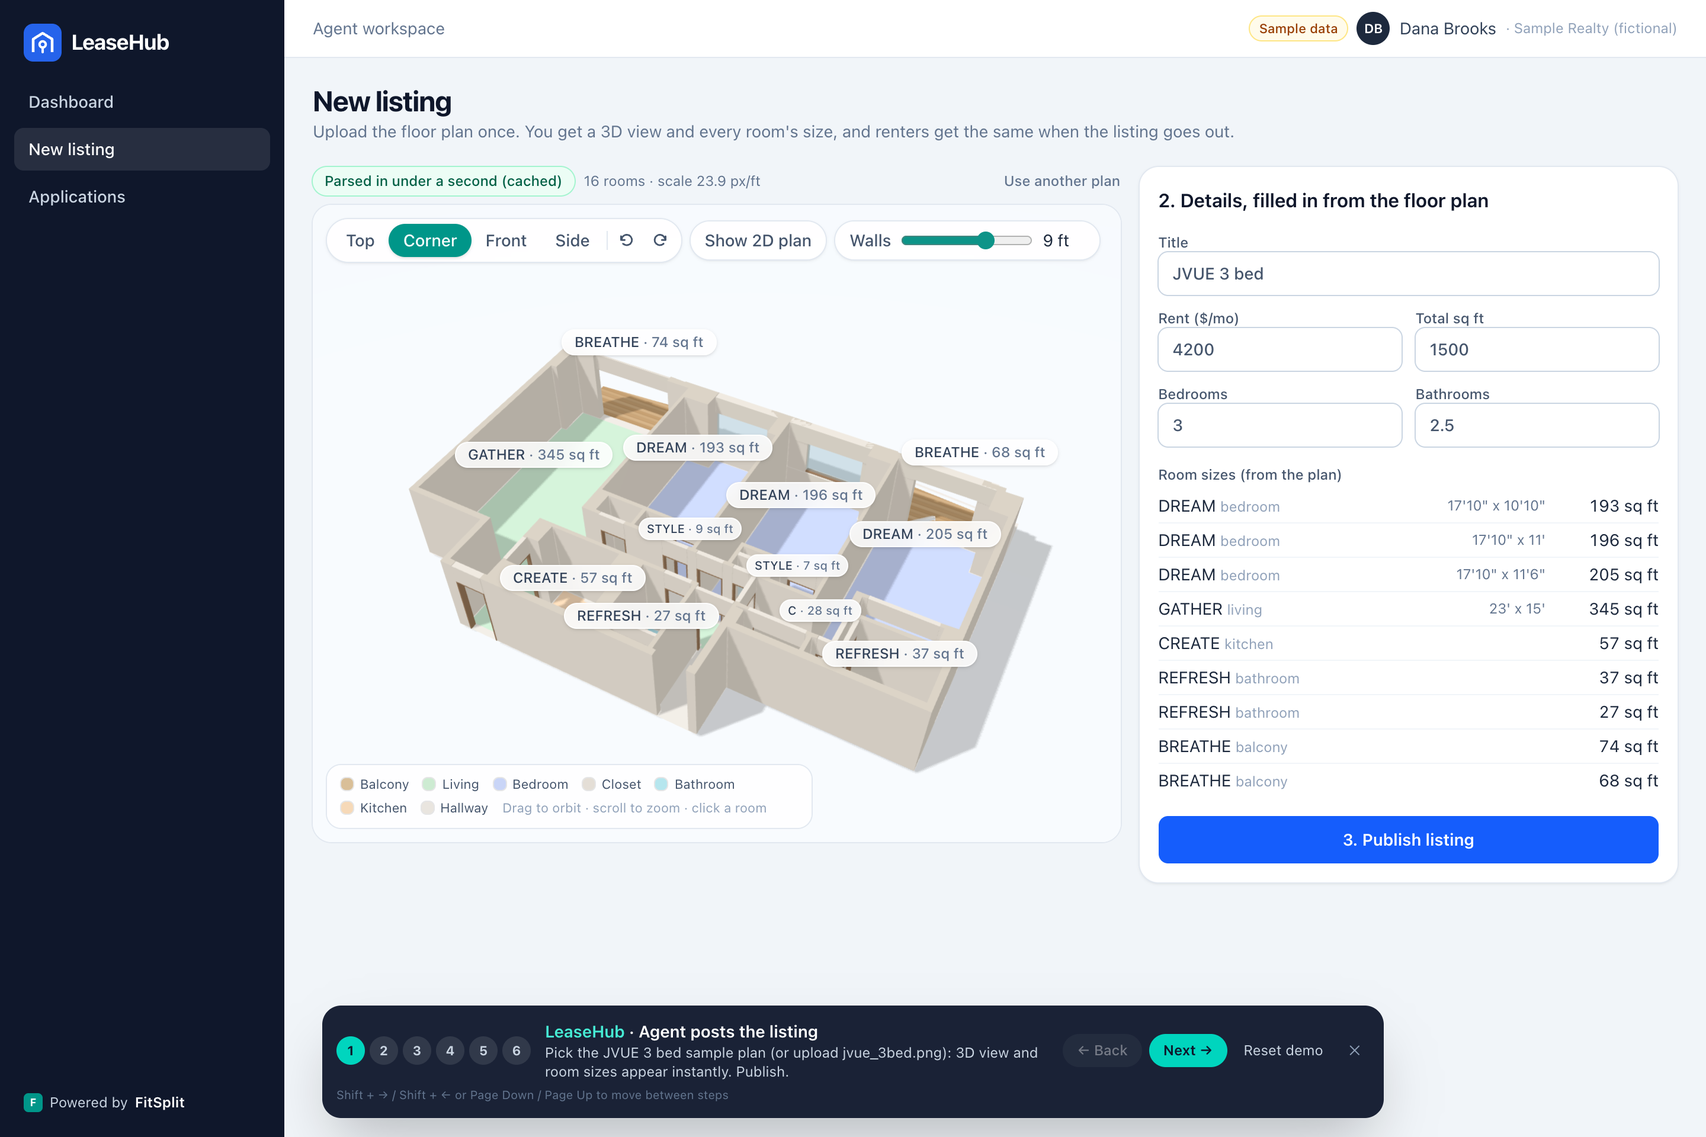
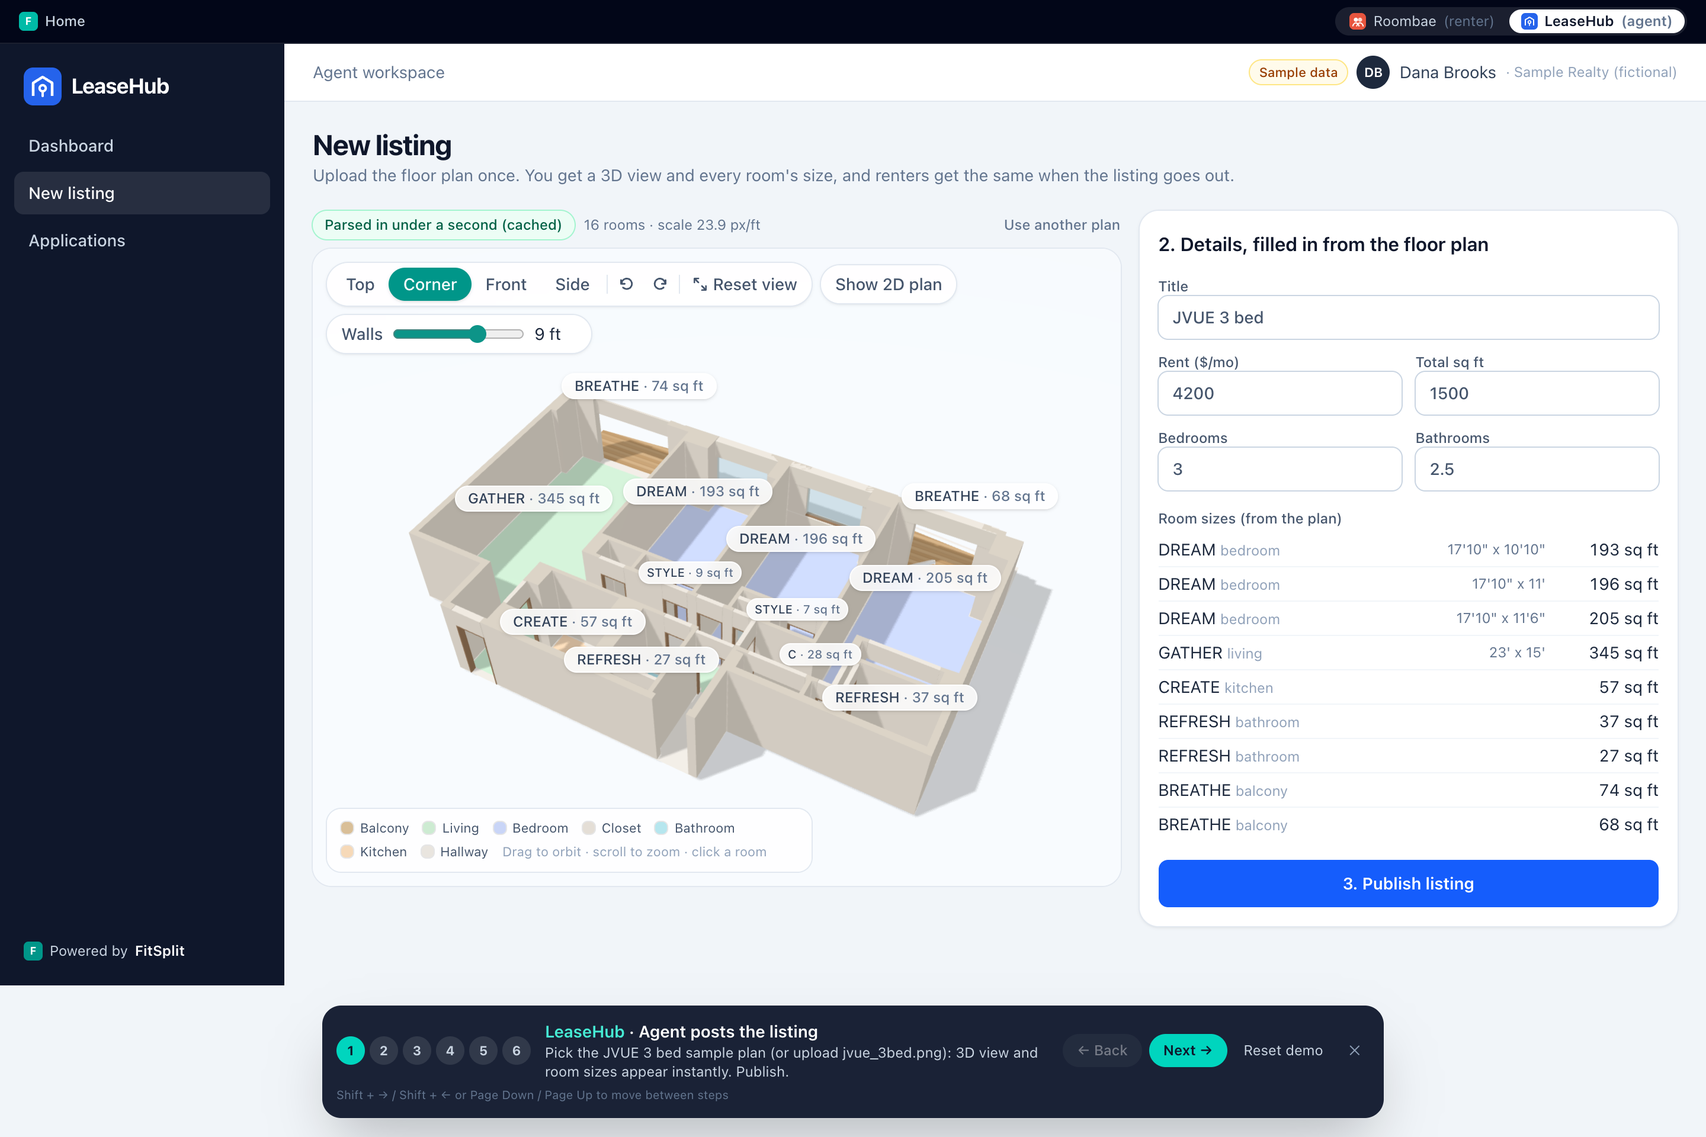
Report for the 2026-10-15 fixes: docs/FIXES_2026-10-15.md, refreshed screenshots (swipe deck, match, didn't click, My matches, replay), decisions and progress

diff --git a/docs/FIXES_2026-10-15.md b/docs/FIXES_2026-10-15.md
@@ -1,0 +1,244 @@
+# Fixes after the tour: 2026-10-15
+
+The six fixes from the tour, in the order asked, on branch `overnight`: one commit per fix, plus two
+small follow-ups to fix 3. Everything that worked before still works, and the guided demo still runs
+end to end with the backend stopped.
+
+## Status
+
+- All six fixes are done and committed, plus two small follow-ups to fix 3:
+  `f605f7e` (1), `d4b7cdd` (2), `d7e97df` (3), `2e1a044` + `5313e21` (3 follow-ups), `8a6b4c2` (4), `a65e246` (5), `78f3a4d` (6).
+- All 12 bundled conversations come from the new engine (rm2), and every message has a plain-English line.
+- **Tests: all green**, run against a cold-start `npm run dev:all`.
+
+  | Suite | Result |
+  |---|---|
+  | backend pytest | 53 passed |
+  | `npm run check` (offline logic, now with the deck filters) | 58 passed |
+  | `npm run build` | ok |
+  | `e2e-demo` (the 6-step demo, online + backend blocked) | 48/48 |
+  | `e2e-swipe` (online, offline, phone) | 69/69 |
+  | `e2e-chat` (online, offline) | 30/30 |
+  | `e2e-stepbar` | 15/15 |
+  | `e2e-nav` | 12/12 |
+  | `e2e-reset` | 8/8 |
+  | `e2e-viewer` | 10/10 |
+  | `e2e-rentcheck` | 17/17 |
+
+## What changed
+
+### 1. Chat auto scroll (bug)
+- The conversation scrolls inside its own box (up to 62% of the screen), so the page never moves by
+  itself.
+- The box follows new messages only while you're near its bottom (within about 56 px). Scroll up
+  and it stays where you left it.
+- When new messages arrive while you're scrolled up, a **Jump to latest ↓** button appears. It
+  sticks above the demo bar, even when the box's bottom is below the fold.
+- Replay controls:
+  - **Pause / Play**;
+  - speed **1× / 2× / 4×** (the choice carries over to the next conversation);
+  - **Skip to verdict** (lands on the top of the verdict card);
+  - **↺ Replay** once it's done.
+- The lease and move-in checks above the chat now have labels (they were blank).
+- Test: `frontend/scripts/e2e-chat.mjs`, online and with the backend blocked. It covers following,
+  staying put after a real wheel scroll-up, jump, pause / play, speed and skip.
+
+### 2. Navigation
+- `/` now has three big entries: **Roombae (renter)**, **LeaseHub (agent)** and **Guided demo**. The
+  parser lab is a small link below them.
+- Both portals have a slim bar on top:
+  - **Home** goes back to `/`;
+  - a **Roombae / LeaseHub** switcher marks the current portal.
+- Each portal's logo goes to that portal's home.
+- Test: `frontend/scripts/e2e-nav.mjs`.
+
+### 3. Swipe to match
+Ported from Tanvi's **Setup Match** (`SetupMatch.tsx`, plus her `GET /users/candidates` filter) and
+**My Matches** (`MyMatches.tsx`). She is credited in the README and on the page.
+- **Find roommates** is now three steps: **1 Discover → 2 My matches → 3 Find a place together**.
+- **Discover** is a Tinder-style stacked deck:
+  - each card shows an illustrated avatar, name, program and school, hometown, budget, move-in,
+    sleep, tidiness, guests, fun tags (hobbies), a short bio and what they care about;
+  - drag with rotation and a spring back (Framer Motion 13.4.6), ✕ / ♥ buttons, ← / → keys, and
+    Undo for the last swipe.
+- **Filters (Tanvi's):** same city first, then the same metro area, and anyone else is hidden.
+  "Same gender only" is checked both ways, and swiped profiles are hidden. One addition: students who
+  already host a room (Arjun, Sofia: Fill a room) aren't in the deck. The page lists who is hidden
+  and why. Two new fictional students exist only to show the filters: Daniel (Manhattan) and Marcus
+  (same gender only).
+- **After a swipe right:**
+  - "Your clones are talking…": the real conversation plays fast, one line per message, with a
+    progress bar. You can skip, or keep swiping while a live one runs;
+  - then **"It's a match!"**: both avatars, the verdict, the score, the top three sub-scores, what's
+    still open, then **Watch the conversation** / **Find a place together** / Keep swiping;
+  - or **"Your clones didn't click"**, with one line from the profiles (e.g. "Jake smokes, and you
+    need a non-smoking home.") and **See why**.
+- **My matches:** verdict counts, a "Show incompatible" toggle (hidden by default, as in Tanvi's),
+  scores, the open topics, **Watch the conversation**, and "In my group" checkboxes. **Find a place
+  together →** leads on.
+- **Find a place together** (the old roommate page):
+  - pick roommates from your matches;
+  - every pair in the group must match (Ananya + Meera's clones talked too);
+  - you only see listings where every fair-split share fits each budget;
+  - **Save group & see it in 3D**, then the rent split, then group apply, as before.
+- **Seeded deck for Priya:** Ananya (match), Jake (didn't click: smoking), Kavya, Meera (match) and
+  Rohan, in Tanvi's order (location, then name). Every card has a bundled conversation, so swiping
+  works offline.
+- **Swipes** live in the shared localStorage store, survive a reload, and are cleared by **Reset
+  demo**.
+- **Avatars** are illustrations in DiceBear's "Notionists" style (artwork CC0, code MIT), with the
+  look picked per student. They are pre-generated SVGs in `public/demo/avatars/`, with no runtime
+  library or network call; without one, initials show.
+- `/demo` step 2 and `docs/DEMO_SCRIPT.md` now use the swipe flow. The step 2 hint walks through it.
+- Phone: the card and the ✕ / ♥ buttons fit on one screen.
+- Tests:
+  - `frontend/scripts/e2e-swipe.mjs`: deck order, filters, short drag springs back, drag / key /
+    button swipes, match, didn't click, replay, reload, My matches counts and toggle, group,
+    listings, save, Reset demo. Run online, with the backend blocked, and on a phone viewport;
+  - deck filter unit checks in `npm run check`;
+  - step 2 of `e2e-demo.mjs`.
+
+### 4. Clone conversation quality
+**Why the clones asked for things already said.** All three suspects contributed (details in
+`docs/notes/roommate_engine_analysis.md`):
+- **How the other clone's message was passed (main cause).**
+  - It arrived as an unlabelled "user" message behind the phase hint. Models echoed it (Priya's clone
+    repeated Kavya's message word for word for ten turns), answered as the other person, or called
+    them "User".
+  - Each clone saw only its last 6 history entries. By turn 8 the other's intro (budget, move-in)
+    was out of view.
+- **Lazy modules.** A clone's own sleep, guests and cleanliness answers arrived only after it asked
+  for that module, and only on its next turn. Until then it guessed, often by mirroring the other
+  (Meera's clone reported Priya's sleep times as her own).
+- **Phase prompts.** "Ask theirs" repeated every turn. "VRD in your final message" put a verdict in
+  every message, and a turn-1 "STRONG" once decided a match.
+- **Found while regenerating:**
+  - the clones and the analysis read "mv=1–3 months" (move in within 1 to 3 months) as a 1–3 month
+    stay, and argued about lease length;
+  - the analysis invented "hard non-negotiables" and overrode the clones' verdict.
+
+**The fix: engine rm2** (`backend/app/roommates/memory.py`, `engine.py`).
+- **Memory.** Every turn's prompt names both clones and labels the other's message ("Meera's clone
+  just said: …"). It carries a memory parsed from the ACP fields:
+  - what the other already told you (never ask again);
+  - what you already shared (don't repeat);
+  - what's still open this phase;
+  - any fact check from code.
+- **Modules by phase.** Exploration loads routines, social and lifestyle; negotiation loads financial
+  and dealbreakers. A topic the other raises loads its module before you reply.
+- **Intro.** It must state smoking, pets and non-negotiables, so Jake's smoking ends the chat in
+  turn 2.
+- **Non-negotiables.** Each clone sees its exact non-negotiables and flexible items. Before the
+  conclusion, only a conflict with a real non-negotiable ends the chat; anything else gets "negotiate
+  it". The same rule applies to an analysis override.
+- **Verdicts.** Only conclusion-phase verdicts decide strong / conditional. Code-verified open points
+  (e.g. lease length) are listed first.
+- **Field notes** for every clone: "mv = when you move in, not how long you stay; your lease: …".
+- **Plain-English lines.** Each reply starts with a `SAY:` line, the chat's main text, with the
+  protocol under a small per-message **details** toggle. It comes with the turn and is cached with
+  it. One cached narration call fills any gaps (none were needed), and narration that quotes a
+  number its message doesn't contain is dropped.
+- **Tests.** 11 new backend tests. The test fixture now also blocks the text providers and isolates
+  the usage ledger and cache (the new narration step would otherwise have let a test reach a real
+  API).
+
+**Regenerated (all 12 bundled conversations):**
+
+| Pair | Result | Model |
+|---|---|---|
+| Priya + Ananya | strong, 95 | Groq |
+| Priya + Jake | incompatible in 2 turns (smoking) | Groq |
+| Priya + Meera | conditional, 74: lease length, weekend hangouts, late noise | Claude |
+| Ananya + Meera | conditional, 72: move-in date | Groq |
+| Priya + Kavya | conditional, 84 (the old one looped on an invented pet conflict) | Claude |
+| Priya + Rohan | strong, 90 | Claude |
+| Fill a room: Rohan + Arjun, Rohan + Sofia | strong, 84 and 85 (Rohan matches) | Claude |
+| Fill a room: Jake + Arjun, Jake + Sofia | out in 2 turns (smoking) | Claude |
+| Fill a room: Kavya + Arjun, Kavya + Sofia | exact budget check, no model calls | none |
+
+The group (Priya, Ananya, Meera) and every demo step are unchanged.
+
+### 5. Reset view button
+- Every embedded 3D viewer has a small **Reset view** button. On phones it reads "Reset".
+  - With the toolbar, it sits next to the rotate buttons.
+  - On embeds without one (Fill a room), it's a small pill top left.
+- It returns to the viewer's starting view (3D corner, no 45° offset) and re-fits the camera after
+  any orbit, zoom or pan, and also from Top / Front / Side.
+- Test: `frontend/scripts/e2e-reset.mjs` covers a listing page and Fill a room. After orbit + zoom,
+  the camera comes back within about 1 px of the default fit.
+
+### 6. Demo step bar sync
+- The bar follows the current page:
+  - step 2 covers Discover, My matches and Find a place together;
+  - step 3 is the listing page, step 4 the listing page with `#rent`, step 5 apply, step 6 the
+    application view.
+- On a page that isn't a step's, the bar keeps the last step and offers "back to step N".
+- **Next / Back / Shift + arrows / Page Up / Page Down** step from the shown step, on any page. The
+  step survives switching portals.
+- The LeaseHub dashboard no longer counts as step 6 (it showed "6" while posting the listing), but
+  "Next" onto step 6 still works there.
+- While a furniture piece is selected in edit mode, Shift + arrows nudge the piece (1 ft) and no
+  longer change the step. Page Up / Down still do. This was a known issue from last night.
+- Test: `frontend/scripts/e2e-stepbar.mjs`.
+
+## Screenshots (docs/screenshots/)
+
+New or updated by `e2e-demo.mjs`:
+- `roombae_discover_deck.png`: the swipe deck, with the filters panel.
+- `roombae_discover_match_strong.png`, `roombae_discover_match_conditional.png`: "It's a match!"
+  (Ananya 95, Meera 74, with what's still open).
+- `roombae_discover_didnt_click.png`: "Your clones didn't click: Jake smokes, and you need a
+  non-smoking home."
+- `roombae_my_matches.png`: My matches (counts, Show incompatible, In my group).
+- `roombae_replay.png`: the replay with plain-English lines, details folded, and replay controls.
+- `demo_step2_deck.png`, `demo_step2_talking.png`, `demo_step2_match.png`,
+  `demo_step2_noclick.png`, `demo_step2_group.png`: demo step 2.
+- `landing.png`: the new landing page.
+- The other portal and demo screenshots were refreshed.
+- `demo_step2_negotiation.png` (the old auto-play chat) was removed.
+
+## API calls for these fixes
+
+All calls are in `data/llm/calls.jsonl`, without prompts, answers or keys.
+
+**Claude (`claude-sonnet-5-5`): 77 calls today.**
+- 73 succeeded. 4 failed: 2 cut off at the old token limits (fixed), 1 timeout, 1 dropped
+  connection (now retried on the same provider).
+- All of them were for the roommate conversations: Priya with Meera, Kavya and Rohan, and the Fill
+  a room pairs.
+- 256k tokens in, 62k out.
+- Total since last night: **94 of the 150 cap**, so **56 left**.
+
+**Groq:** 165 successful calls (qwen3.8-27b 104, gpt-oss-120b 42, gpt-oss-20b 19), plus 154
+rate-limit retries. They generated Priya + Ananya, Priya + Jake and Ananya + Meera, plus the first
+Kavya and Rohan versions in fix 3. All three models then hit their daily token quota.
+
+**Gemini:** 6 attempts, 0 successes (quota exhausted and high demand).
+
+**Budget change (yours, mid-way):**
+- Claude cap raised to 150 in total, and Claude first in the text chain.
+- `TEXT_CHAIN_ORDER=groq,gemini,claude` restores the overnight order once Groq's quota is back.
+
+## Still off
+
+- **Live negotiations now cost Claude calls.** With Claude first, a swipe on a pair that isn't
+  bundled (e.g. after a profile edit through the API) costs about 14 Claude calls (56 left). Set
+  `TEXT_CHAIN_ORDER=groq,gemini,claude` once Groq's daily quota resets. Everything in the demo is
+  bundled.
+- **Two writing styles.** Three conversations came from Groq (qwen / gpt-oss) and the rest from
+  Claude Sonnet. Claude's lines are longer and more concrete, and its open topics can be long
+  ("small friend hangouts in my room on non-gathering weekends"), so chips wrap on the match screen.
+- **The clones are still a bit agreeable.**
+  - In Ananya + Meera, Meera "accepts" a 1-year lease although she listed no lease flexibility.
+    Code still marks the move-in date as open.
+  - Analyses occasionally restate a gap that code says is fine (Priya + Meera mentions move-in
+    timing, though Priya is flexible on it).
+- **The questionnaire is read-only.** Discover shows Priya's 7 sections, but editing answers (and a
+  live re-negotiation from them) isn't wired in the UI; the old page's edits never reached the
+  backend either.
+- **The deck filter runs only in the browser** (`roommates/deck.ts`), so it also works offline.
+  There is no backend candidates endpoint.
+- **Avatars** exist only for the 10 sample students; anyone else gets initials.
+- **Priya + Meera's record says `providers: cache 14`.** It was replayed from cache to apply the
+  open-points fix (0 calls); the call log has the real calls.
+- **The phone layout** was tested in Chrome emulation only.

diff --git a/docs/DECISIONS.md b/docs/DECISIONS.md
@@ -56,3 +56,21 @@ One line each, newest last. Format: `[phase] decision (why)`.
 - [fix 3] "Find roommates" is now three steps: Discover, My matches (after Tanvi's My Matches: verdict counts, Show incompatible, scores, replay, "In my group"), and Find a place together (the old roommate page: every pair in the chosen group must match, then listings where every fair-split share fits each budget). Demo step 2 starts at Discover.
 - [fix 3] The throwaway Vite servers in check-step3 / seed-roommates / precompute-rentcheck now use their own cacheDir (node_modules/.vite-scripts). With the shared cache, `npm run check` deleted the running dev server's optimized deps, and the lazy 3D chunk failed to load until a restart.
 - [fix 3] Known issue, handled in fix 4: the new Priya + Kavya conversation is degenerate. The clones loop on an invented pet conflict, and the verdict falls back to a turn-1 "STRONG" next to a 15/100 analysis.
+- [fix 4] Diagnosis (docs/notes/roommate_engine_analysis.md, last section): all three suspects contributed. The other clone's reply was passed unlabelled as "user" behind the phase hint, and the 6-message window dropped early facts. Lazy modules gave a clone its own sleep / guests / cleanliness answers only after it asked, one turn late. The phase hints repeated "ask theirs", and the protocol's "VRD in your final message" put a verdict in every message.
+- [fix 4] Engine rm2 (ENGINE_VERSION "rm2", so every negotiation id changed):
+  - every turn's prompt names both clones, labels the other's message, and carries a memory parsed from the ACP fields (already told you / already shared / still open this phase), plus any FACT CHECK from code;
+  - history keeps only "X's clone said: ...";
+  - modules load by phase (exploration: routines / social / lifestyle; negotiation: financial + dealbreakers), and a topic the other raises loads its module first;
+  - only conclusion-phase verdicts decide strong / conditional. Before the conclusion, only an "incompatible" that names a non-negotiable (checks.nn_conflict) ends the chat; anything else is set aside with a note listing both sides' non-negotiables and flexible items;
+  - the intro must state smoking, pets and non-negotiables, so Jake's smoking ends the chat in turn 2 again.
+- [fix 4] Plain-English lines: each reply starts with "SAY: ...", which becomes the message's `say` and the chat's main text. The ACP statements sit under a per-message "details" toggle. This costs no extra calls, because the line comes with the turn and is cached with it. Messages without one get a line from one cached narration call per conversation. A narrated line quoting a number its message doesn't contain is dropped. POST /api/roommates/negotiations/{id}/narrate does the same for stored conversations kept from rm1.
+- [fix 4] The autouse test fixture now also blocks the text providers (it fails the test if one is reached) and points the usage ledger and LLM cache at a temp dir. The new narration step would otherwise have let roommate tests reach a real text API and count calls in the real ledger.
+- [fix 4] Regeneration ran with CLAUDE_CALL_CAP=17 (Claude off). Only Groq ran: gpt-oss-120b / 20b / qwen3.8-27b, slowed by 8k-tokens-per-minute limits. Priority order: the guided demo's pairs (Priya with Ananya, Jake, Meera; then Ananya + Meera), then the rest of the deck, then Fill a room. A pair that can't be regenerated keeps its rm1 conversation, gets narrated, and is reported by the seed script.
+- [fix 5] "Reset view" sits in the toolbar's camera group of every 3D viewer, and as its own small pill on embeds without the toolbar (Fill a room). It restores the viewer's starting view (initialView, Corner, no 45° offset) and bumps resetKey, so the camera re-fits after any orbit, zoom or pan. Phones show "Reset".
+- [fix 6] The step bar follows the page. A step's own page sets the step; any other page keeps the last step (sessionStorage "fitsplit.demo.step", so it survives switching portals) and shows "back to step N". Next / Back / Shift + arrows step from the shown step. Step 2 covers Discover, My matches and Find a place together. The LeaseHub dashboard is no longer step 6 (an agent can open it at any time), but "Next" onto step 6 still shows 6 there. Shift + arrows are left to the 3D viewer while a furniture piece is selected in edit mode (they nudge it 1 ft); Page Up / Down still change steps.
+- [fix 4] Two more causes surfaced during regeneration, both fixed before the final run:
+  - The clones (and the analysis) read "mv=1–3 months" as a 1-3 month stay, so Ananya and Meera argued about a lease neither cared about. Every clone now gets a FIELD NOTES block ("mv = when you move in, not how long you stay; your lease: a 1-year lease"), and the analysis gets each person's move-in, lease, non-negotiables and flexible items.
+  - The analysis declared lease length a "hard non-negotiable" and overrode the clones' conditional verdict. An analysis override now has to name a real non-negotiable (checks.nn_conflict), the same rule as early stops.
+- [fix 4] Regeneration keeps a conversation that finished cleanly. Prompt changes mean new cache keys, so the final run regenerated every seeded conversation once. It was still Groq only, mostly qwen3.8-27b: gpt-oss-120b / 20b were at their daily token quota, and each model is limited to 8k tokens per minute (about 10 minutes per conversation).
+- [budget] The user changed the plan mid-way: Claude cap 150 in total (CLAUDE_CALL_CAP default), and Claude first in the text chain (TEXT_CHAIN_ORDER, default "claude,groq,gemini"; "groq,gemini,claude" is the overnight order), because Groq's three models and Gemini were out of quota. Turn / analysis / narration token limits were raised for Claude (1800 / 3000 / 3000; not part of the cache key). Timeouts, dropped connections and 5xx are now retried twice on the same provider (3 s, 8 s) before the chain moves on.
+- [budget] Claude used 77 calls for these fixes (73 OK, 4 failed), all for roommate conversations: 94 of 150 in total since last night.

diff --git a/docs/PROGRESS.md b/docs/PROGRESS.md
@@ -30,8 +30,10 @@ Branch: `overnight` (baseline on `main`). Checks after every phase: `cd frontend
 | 1 Chat auto scroll + replay controls | done | NegotiationView scroll box, Jump to latest, pause / 1×2×4× / Skip to verdict; `scripts/e2e-chat.mjs` |
 | 2 Navigation | done | landing with 3 entries, PortalBar (Home + switcher), logos to portal home; `scripts/e2e-nav.mjs` |
 | 3 Swipe to match | done | Discover + My matches (Tanvi's Setup Match / My Matches), avatars, deck filters; `scripts/e2e-swipe.mjs` (online, offline, phone) |
-| 4 Clone conversation quality | todo | |
-| 5 Reset view button | todo | |
-| 6 Demo step bar sync | todo | |
+| 4 Clone conversation quality | done | engine rm2 (memory.py): labelled turns + memory, modules by phase, only real non-negotiables end chats early, field notes (move-in vs lease), SAY lines + "details"; seeded conversations regenerated on Groq |
+| 5 Reset view button | done | every 3D viewer (toolbar or standalone pill); `scripts/e2e-reset.mjs` |
+| 6 Demo step bar sync | done | follows the page, keeps the last step elsewhere, Next/Back from anywhere, Shift+arrow nudge no longer changes steps; `scripts/e2e-stepbar.mjs` |
 
 API budget for these fixes: Groq first, Claude at most 40 more calls (cap 57 in total), everything cached.
+
+- 2026-10-15 fixes done: six fix commits (+2 follow-ups to fix 3); all 12 bundled conversations regenerated with engine rm2 (Groq for 3, Claude for the rest after Groq / Gemini ran out); Claude 94 / 150 in total. All suites green from a cold `npm run dev:all`: pytest 53, check 58, build, e2e demo 48, swipe 69, chat 30, stepbar 15, nav 12, reset 8, viewer 10, rentcheck 17. Report: docs/FIXES_2026-10-15.md.
